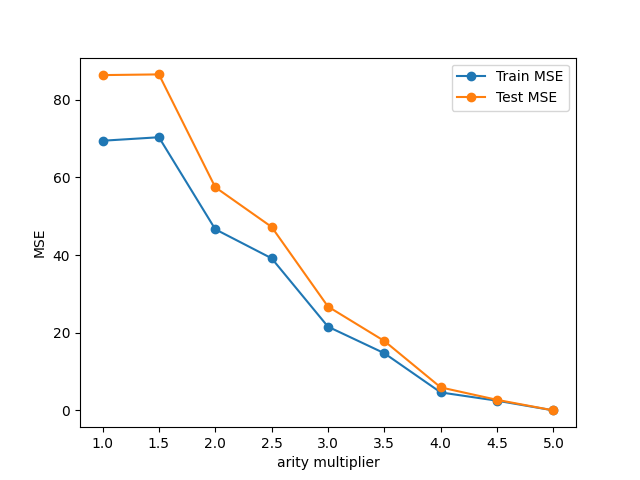
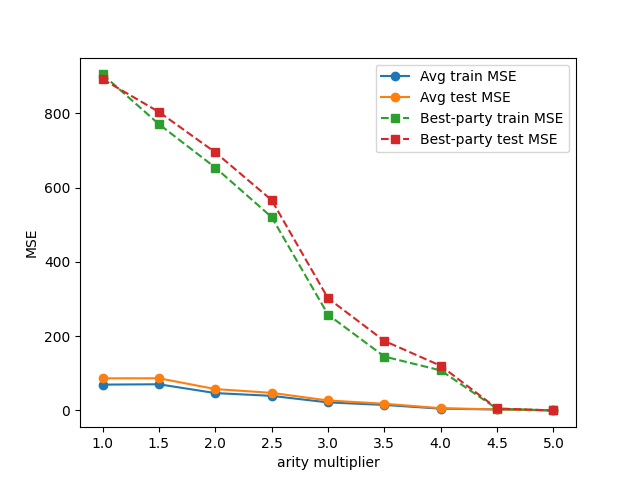
update averaging figure

diff --git a/report.tex b/report.tex
@@ -238,12 +238,13 @@ Zero: 1317.2347367455047
 
 Now we consider \uline{how does the error scale as we increase the data each party receives}? (Allowing for some redundancy, where multiple clients receive the same feature).
 Currently, we split 100 features equally among 5 parties, each receiving 20 of them.
+From the graph, we see that averaging results performs significantly better than simply taking the best party.
 If we increase the multiplier of features that each party receives, we see a linear trend in the error.
 
 \begin{figure}[h]
     \center
     \includegraphics[width=200px]{fgd_avg}
-    \caption{Test and train MSE against Per-party feature arity multplier}
+    \caption{Test and train MSE for averaged and best party against per-party feature arity multplier}
 \end{figure}
 
 \bibliographystyle{plain}